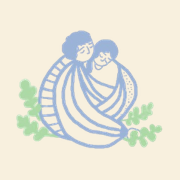
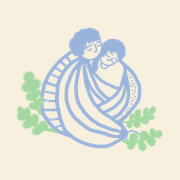
ninho: ícones refeitos do desenho novo sem a palavra (fundo preto tirado, em ninho/identidade/desenho-ninho.png) e texto na cor escura #041e42 da identidade, 14,6:1 sobre o creme (df-8x0m.23.30)

Changed region(s): [[0.0833, 0.1389, 0.9167, 0.8611]]

diff --git a/ninho/telas/dist/assets/index-Bq-5aU0y.css b/ninho/telas/dist/assets/index-Bq-5aU0y.css
@@ -1,0 +1,2 @@
+/*! tailwindcss v4.3.5 | MIT License | https://tailwindcss.com */
+@layer properties{@supports (((-webkit-hyphens:none)) and (not (margin-trim:block))) or ((-moz-orient:inline) and (not (color:rgb(from red r g b)))){*,:before,:after,::backdrop{--tw-border-style:solid;--tw-leading:initial;--tw-font-weight:initial;--tw-ordinal:initial;--tw-slashed-zero:initial;--tw-numeric-figure:initial;--tw-numeric-spacing:initial;--tw-numeric-fraction:initial}}}@layer theme{:root,:host{--font-sans:Quicksand, system-ui, sans-serif;--spacing:.25rem;--font-weight-medium:500;--font-weight-semibold:600;--font-weight-bold:700;--leading-tight:1.25;--color-fundo:#f8f0de;--color-cartao:#fffbf2;--color-texto:#041e42;--color-secundario:#5b6275;--color-marca:#99b2d9;--color-acento:#3d5a8f;--color-entrada:#2f6b3a;--color-faixa:#f4ecda;--color-linha:#ece2cc;--color-ativa:#e4ebf6;--color-alerta:#a33b2c;--color-alerta-fundo:#f8e0d8;--font-titulo:Migra, ui-serif, Georgia, "Times New Roman", serif}}@layer base{*,:before,:after{box-sizing:border-box;border:0 solid}body{background:var(--color-fundo);color:var(--color-texto);font-family:var(--font-sans);-webkit-text-size-adjust:100%;margin:0;font-weight:500}button,select{font:inherit;color:inherit}button{text-align:left;cursor:pointer;background:0 0;border:0;padding:0}button:disabled{cursor:default}button:focus-visible,select:focus-visible{outline:2px solid var(--color-acento);outline-offset:2px}select{font-size:16px}}@layer components;@layer utilities{.visible{visibility:visible}.fixed{position:fixed}.sticky{position:sticky}.inset-x-0{inset-inline:0}.top-0{top:0}.bottom-0{bottom:0}.z-10{z-index:10}.z-20{z-index:20}.m-0{margin:0}.mx-auto{margin-inline:auto}.mt-1{margin-top:var(--spacing)}.mr-1{margin-right:var(--spacing)}.block{display:block}.flex{display:flex}.hidden{display:none}.h-6{height:calc(var(--spacing) * 6)}.h-11{height:calc(var(--spacing) * 11)}.h-14{height:calc(var(--spacing) * 14)}.min-h-14{min-height:calc(var(--spacing) * 14)}.min-h-dvh{min-height:100dvh}.w-6{width:calc(var(--spacing) * 6)}.w-11{width:calc(var(--spacing) * 11)}.w-full{width:100%}.max-w-\[480px\]{max-width:480px}.min-w-0{min-width:0}.flex-1{flex:1}.shrink-0{flex-shrink:0}.cursor-pointer{cursor:pointer}.list-none{list-style-type:none}.flex-col{flex-direction:column}.items-center{align-items:center}.items-start{align-items:flex-start}.justify-between{justify-content:space-between}.justify-center{justify-content:center}.gap-1{gap:var(--spacing)}.gap-2{gap:calc(var(--spacing) * 2)}.gap-3{gap:calc(var(--spacing) * 3)}.truncate{text-overflow:ellipsis;white-space:nowrap;overflow:hidden}.overflow-hidden{overflow:hidden}.rounded-\[10px\]{border-radius:10px}.rounded-\[20px\]{border-radius:20px}.rounded-\[999px\]{border-radius:999px}.border-0{border-style:var(--tw-border-style);border-width:0}.border-t{border-top-style:var(--tw-border-style);border-top-width:1px}.border-b{border-bottom-style:var(--tw-border-style);border-bottom-width:1px}.border-linha{border-color:var(--color-linha)}.bg-alerta-fundo{background-color:var(--color-alerta-fundo)}.bg-ativa{background-color:var(--color-ativa)}.bg-cartao{background-color:var(--color-cartao)}.bg-faixa{background-color:var(--color-faixa)}.bg-fundo{background-color:var(--color-fundo)}.bg-marca{background-color:var(--color-marca)}.object-contain{object-fit:contain}.p-0{padding:0}.px-3{padding-inline:calc(var(--spacing) * 3)}.px-4{padding-inline:calc(var(--spacing) * 4)}.px-5{padding-inline:calc(var(--spacing) * 5)}.py-1\.5{padding-block:calc(var(--spacing) * 1.5)}.py-2{padding-block:calc(var(--spacing) * 2)}.py-3{padding-block:calc(var(--spacing) * 3)}.py-6{padding-block:calc(var(--spacing) * 6)}.pt-2{padding-top:calc(var(--spacing) * 2)}.pt-\[max\(12px\,env\(safe-area-inset-top\)\)\]{padding-top:max(12px, env(safe-area-inset-top))}.pb-2{padding-bottom:calc(var(--spacing) * 2)}.pb-3{padding-bottom:calc(var(--spacing) * 3)}.pb-4{padding-bottom:calc(var(--spacing) * 4)}.pb-\[calc\(56px\+env\(safe-area-inset-bottom\)\)\]{padding-bottom:calc(56px + env(safe-area-inset-bottom))}.pb-\[env\(safe-area-inset-bottom\)\]{padding-bottom:env(safe-area-inset-bottom)}.pb-\[max\(24px\,env\(safe-area-inset-bottom\)\)\]{padding-bottom:max(24px, env(safe-area-inset-bottom))}.pl-4{padding-left:calc(var(--spacing) * 4)}.font-sans{font-family:var(--font-sans)}.font-titulo{font-family:var(--font-titulo)}.text-\[13px\]{font-size:13px}.text-\[14px\]{font-size:14px}.text-\[16px\]{font-size:16px}.text-\[30px\]{font-size:30px}.leading-tight{--tw-leading:var(--leading-tight);line-height:var(--leading-tight)}.font-bold{--tw-font-weight:var(--font-weight-bold);font-weight:var(--font-weight-bold)}.font-medium{--tw-font-weight:var(--font-weight-medium);font-weight:var(--font-weight-medium)}.font-semibold{--tw-font-weight:var(--font-weight-semibold);font-weight:var(--font-weight-semibold)}.break-words{overflow-wrap:break-word}.text-acento{color:var(--color-acento)}.text-alerta{color:var(--color-alerta)}.text-entrada{color:var(--color-entrada)}.text-secundario{color:var(--color-secundario)}.text-texto{color:var(--color-texto)}.tabular-nums{--tw-numeric-spacing:tabular-nums;font-variant-numeric:var(--tw-ordinal, ) var(--tw-slashed-zero, ) var(--tw-numeric-figure, ) var(--tw-numeric-spacing, ) var(--tw-numeric-fraction, )}.line-through{text-decoration-line:line-through}.accent-entrada{accent-color:var(--color-entrada)}.placeholder\:text-secundario::placeholder{color:var(--color-secundario)}.last\:border-b-0:last-child{border-bottom-style:var(--tw-border-style);border-bottom-width:0}.disabled\:opacity-40:disabled{opacity:.4}}@font-face{font-family:Quicksand;font-style:normal;font-display:swap;font-weight:500;src:url(./quicksand-latin-500-normal-_DbwbYKP.woff2)format("woff2"),url(./quicksand-latin-500-normal-7J1fbcAD.woff)format("woff")}@font-face{font-family:Quicksand;font-style:normal;font-display:swap;font-weight:600;src:url(./quicksand-latin-600-normal-DTBPeRoM.woff2)format("woff2"),url(./quicksand-latin-600-normal-CkxN0sDw.woff)format("woff")}@font-face{font-family:Quicksand;font-style:normal;font-display:swap;font-weight:700;src:url(./quicksand-latin-700-normal-Dpk7G9Y6.woff2)format("woff2"),url(./quicksand-latin-700-normal-HjJN-aaT.woff)format("woff")}@property --tw-border-style{syntax:"*";inherits:false;initial-value:solid}@property --tw-leading{syntax:"*";inherits:false}@property --tw-font-weight{syntax:"*";inherits:false}@property --tw-ordinal{syntax:"*";inherits:false}@property --tw-slashed-zero{syntax:"*";inherits:false}@property --tw-numeric-figure{syntax:"*";inherits:false}@property --tw-numeric-spacing{syntax:"*";inherits:false}@property --tw-numeric-fraction{syntax:"*";inherits:false}

diff --git a/ninho/telas/dist/index.html b/ninho/telas/dist/index.html
@@ -8,8 +8,8 @@
     <link rel="apple-touch-icon" href="./icone-180.png" />
     <meta name="apple-mobile-web-app-title" content="ninho" />
     <title>ninho</title>
-    <script type="module" crossorigin src="./assets/index-B5XpZuPJ.js"></script>
-    <link rel="stylesheet" crossorigin href="./assets/index-DRNLHqI2.css">
+    <script type="module" crossorigin src="./assets/index-CTsnU-fv.js"></script>
+    <link rel="stylesheet" crossorigin href="./assets/index-Bq-5aU0y.css">
   </head>
   <body>
     <div id="root"></div>

diff --git a/ninho/telas/src/index.css b/ninho/telas/src/index.css
@@ -13,7 +13,7 @@
 @theme {
   --color-fundo: #f8f0de;        /* creme da folha */
   --color-cartao: #fffbf2;
-  --color-texto: #2a3248;        /* 11,2:1 sobre o creme */
+  --color-texto: #041e42;        /* a cor escura da identidade: 14,6:1 sobre o creme */
   --color-secundario: #5b6275;   /* 5,4:1 sobre o creme */
   --color-marca: #99b2d9;        /* o azul da marca: preenchimentos e item ativo, nunca texto */
   --color-acento: #3d5a8f;       /* o azul da marca escurecido, para títulos e texto: 6,0:1 */

diff --git a/ninho/identidade/README.md b/ninho/identidade/README.md
@@ -7,6 +7,7 @@ identity sheet, so nobody has to open the image to know a colour or a font.
 | File | What it is |
 | --- | --- |
 | `logo-ninho.png` | The logo: the illustration with the word "ninho" under it. 342 × 300 px, transparent background. |
+| `desenho-ninho.png` | The drawing without the word, from Lucas (2026-11-24): 644 × 554 px, transparent background. It came as 2000 × 1200 on opaque black; the black was turned into transparency (brightness as opacity, so the soft edges of the branches stay) and the image cropped to the drawing. The source of the square icons. |
 | `identidade-visual-original.png` | The identity sheet as received (1920 × 1080): the logo, the two fonts and the three colours. The source of this file; do not edit it. |
 
 ## Logo
@@ -20,10 +21,9 @@ line, soft shapes, no hard corners.
 - Do not recolour it, stretch it, crop the branches or separate the word from the drawing. When only
   a square mark fits (an app icon), use the drawing without the word, on cream.
 - The screens' icons (`ninho/telas/public/icone-64.png`, the tab icon, and `icone-180.png`, the
-  iPhone home-screen icon) are the drawing without the word, cut from `logo-ninho.png` and centred on
-  cream at 82 % of the side. Cut again from a vector when there is one.
-- It is a raster file, 342 × 300: fine up to about that size on screen. A larger use (splash screen,
-  a store icon) needs a vector or a larger export from Lucas.
+  iPhone home-screen icon) are `desenho-ninho.png` centred on cream at 86 % of the side.
+- `logo-ninho.png` is 342 × 300: fine up to about that size on screen. A larger use of the logo with
+  the word (a splash screen) needs a vector or a larger export from Lucas.
 
 ## Colours
 
@@ -38,13 +38,14 @@ line, soft shapes, no hard corners.
 
 **Text needs a darker colour.** The three colours are all light: the blue on cream has a contrast of
 about 1.9 to 1, far below what running text needs (4.5 to 1). So the brand blue is for the logo and
-filled shapes (buttons, the active item), never for text. The sheet gives no dark colour; these
-derived tones were chosen when the identity was applied to the screens (df-8x0m.23.25), each a darker
-shade of the sheet's hues, with its contrast measured against the cream:
+filled shapes (buttons, the active item), never for text. The dark colour is
+`#041e42`, a deep navy given by Lucas (2026-11-24) apart from the sheet; the other tones were derived
+when the identity was applied to the screens (df-8x0m.23.25), each a darker shade of the sheet's
+hues, with its contrast measured against the cream:
 
 | Name | Hex | Contrast on cream | Use |
 | --- | --- | --- | --- |
-| Ink (texto) | `#2a3248` | 11.2 : 1 | running text; also the text on a brand-blue button (5.9 : 1 on `#99b2d9`) |
+| Ink (texto) | `#041e42` | 14.6 : 1 | the identity's dark colour: running text; also the text on a brand-blue button (7.7 : 1 on `#99b2d9`) |
 | Secondary (secundário) | `#5b6275` | 5.4 : 1 | dates, labels, empty states |
 | Dark blue (acento) | `#3d5a8f` | 6.0 : 1 | the screen titles and text links: the brand blue, darkened |
 | Dark green (entrada) | `#2f6b3a` | 5.6 : 1 | positive amounts and the tick of a bought item: the brand green, darkened |
@@ -73,4 +74,4 @@ A screen should look like it belongs next to the drawing.
 
 - Whether Lucas has a licence and the files of Migra for use on the web. Until then the titles use
   the system serif (`ui-serif`, Georgia).
-- A vector version of the logo (or a larger export from Lucas); the icons are cut from the PNG until then.
+- A vector version of the logo with the word, or a larger export of it, for uses larger than 342 × 300.
